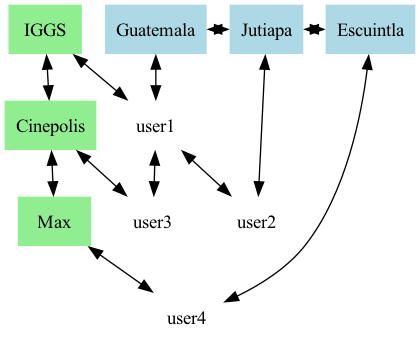
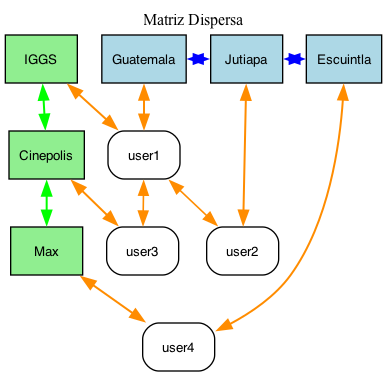
first commit

diff --git a/MatrizDispersa.h b/MatrizDispersa.h
@@ -257,22 +257,26 @@ void MatrizDispersa::insertarAlFinal(Node *valor, Node *cabeH, Node *cabeV) {
 
 void MatrizDispersa::reporte() {
     string dot = "digraph MatrizDispersa {\n";
-    dot += "rankdir=TB;\n"; // Configuración base de arriba hacia abajo
-    dot += "node[shape=box, style=filled, color=lightgrey];\n";
+    dot += "rankdir=TB;\n"; // Configuración general de arriba hacia abajo
+    dot += "graph[fontsize=12, labelloc=t, label=\"Matriz Dispersa\", fontcolor=black];\n";
+    dot += "node[shape=box, style=filled, fontname=\"Helvetica\", fontsize=10];\n";
+    dot += "edge[penwidth=1.2, color=gray];\n";
 
-    // Cabeceras Horizontales (Departamentos en el eje X)
-    dot += "{ rank=same; ";
+    // Cabeceras Horizontales (Departamentos)
+    dot += "{ rank=same; "; // Fuerza a los nodos a estar en el mismo nivel
     Node *hdH = this->cabeH;
     while (hdH != nullptr) {
-        dot += "H_" + hdH->user->getDepartamento() + "[label=\"" + hdH->user->getDepartamento() + "\", color=lightblue]; ";
+        dot += "H_" + hdH->user->getDepartamento() +
+               "[label=\"" + hdH->user->getDepartamento() + "\", fillcolor=lightblue, fontcolor=black]; ";
         hdH = hdH->sig;
     }
     dot += "}\n";
 
-    // Cabeceras Verticales (Empresas en el eje Y)
+    // Cabeceras Verticales (Empresas)
     Node *hdV = this->cabeV;
     while (hdV != nullptr) {
-        dot += "V_" + hdV->user->getEmpresa() + "[label=\"" + hdV->user->getEmpresa() + "\", color=lightgreen];\n";
+        dot += "V_" + hdV->user->getEmpresa() +
+               "[label=\"" + hdV->user->getEmpresa() + "\", fillcolor=lightgreen, fontcolor=black];\n";
         hdV = hdV->abajo;
     }
 
@@ -281,44 +285,51 @@ void MatrizDispersa::reporte() {
     while (horiz != nullptr) {
         Node *aux = horiz->abajo;
         while (aux != nullptr) {
-            dot += "N_" + aux->user->getUsername() + "[label=\"" + aux->user->getUsername() + "\", color=white];\n";
+            dot += "N_" + aux->user->getUsername() +
+                   "[label=\"" + aux->user->getUsername() + "\", fillcolor=white, fontcolor=black, style=\"rounded,filled\"];\n";
             aux = aux->abajo;
         }
         horiz = horiz->sig;
     }
 
-    // Relaciones horizontales
+    // Relaciones horizontales entre departamentos y nodos
     horiz = this->cabeH;
     while (horiz != nullptr) {
         if (horiz->sig != nullptr) {
-            dot += "H_" + horiz->user->getDepartamento() + " -> H_" + horiz->sig->user->getDepartamento() + " [dir=both];\n";
+            dot += "H_" + horiz->user->getDepartamento() + " -> H_" + horiz->sig->user->getDepartamento() +
+                   " [dir=both, color=blue, penwidth=1.5];\n";
         }
         Node *aux = horiz->abajo;
         if (aux != nullptr) {
-            dot += "H_" + horiz->user->getDepartamento() + " -> N_" + aux->user->getUsername() + " [dir=both];\n";
+            dot += "H_" + horiz->user->getDepartamento() + " -> N_" + aux->user->getUsername() +
+                   " [dir=both, color=darkorange, penwidth=1.5];\n";
         }
         while (aux != nullptr) {
             if (aux->abajo != nullptr) {
-                dot += "N_" + aux->user->getUsername() + " -> N_" + aux->abajo->user->getUsername() + " [dir=both];\n";
+                dot += "N_" + aux->user->getUsername() + " -> N_" + aux->abajo->user->getUsername() +
+                       " [dir=both, color=darkorange, penwidth=1.2];\n";
             }
             aux = aux->abajo;
         }
         horiz = horiz->sig;
     }
 
-    // Relaciones verticales
+    // Relaciones verticales entre empresas y nodos
     Node *vert = this->cabeV;
     while (vert != nullptr) {
         if (vert->abajo != nullptr) {
-            dot += "V_" + vert->user->getEmpresa() + " -> V_" + vert->abajo->user->getEmpresa() + " [dir=both];\n";
+            dot += "V_" + vert->user->getEmpresa() + " -> V_" + vert->abajo->user->getEmpresa() +
+                   " [dir=both, color=green, penwidth=1.5];\n";
         }
         Node *aux = vert->sig;
         if (aux != nullptr) {
-            dot += "V_" + vert->user->getEmpresa() + " -> N_" + aux->user->getUsername() + " [dir=both];\n";
+            dot += "V_" + vert->user->getEmpresa() + " -> N_" + aux->user->getUsername() +
+                   " [dir=both, color=darkorange, penwidth=1.5];\n";
         }
         while (aux != nullptr) {
             if (aux->sig != nullptr) {
-                dot += "N_" + aux->user->getUsername() + " -> N_" + aux->sig->user->getUsername() + " [dir=both];\n";
+                dot += "N_" + aux->user->getUsername() + " -> N_" + aux->sig->user->getUsername() +
+                       " [dir=both, color=darkorange, penwidth=1.2];\n";
             }
             aux = aux->sig;
         }
